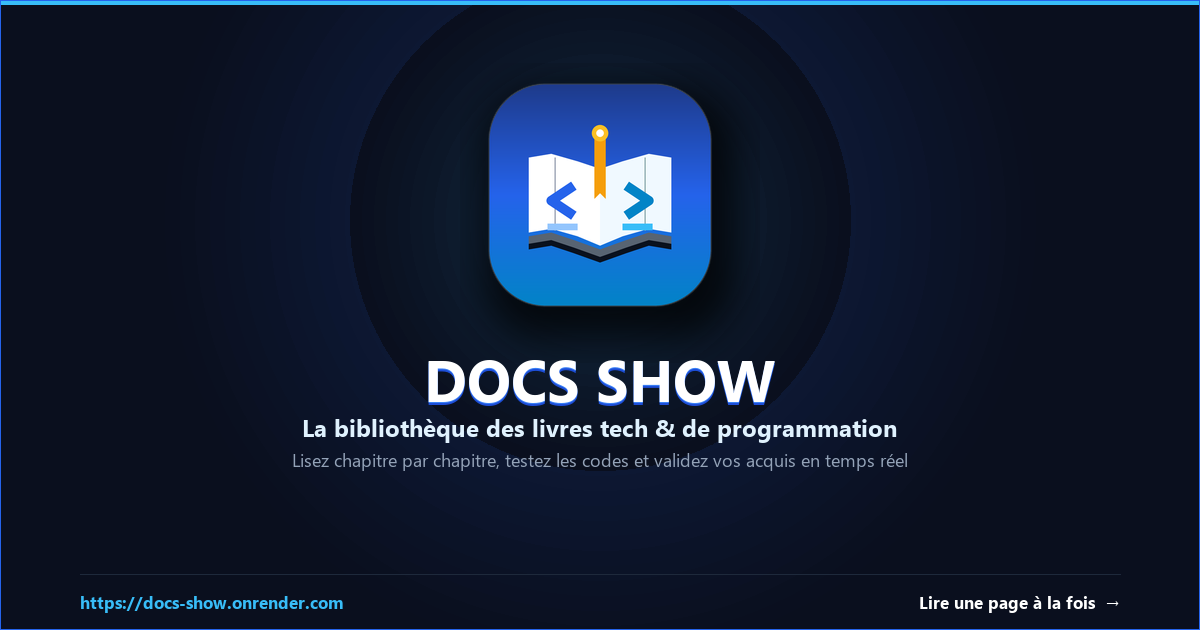
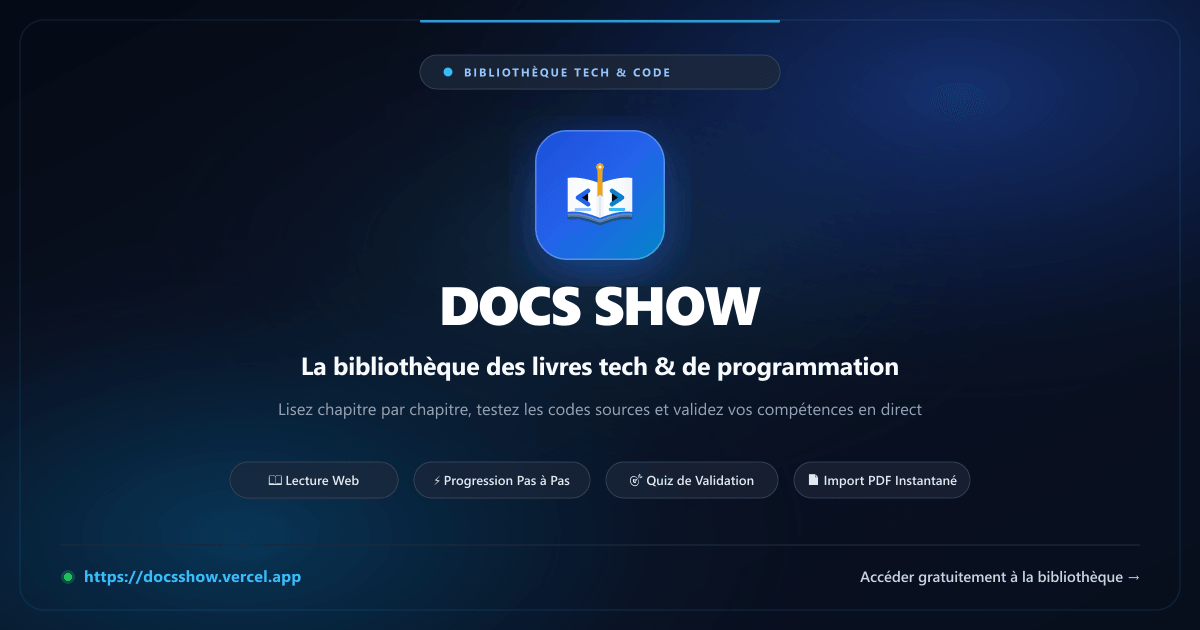
feat(seo): configuration complète OpenGraph et Twitter Cards pour https://docsshow.vercel.app/

diff --git a/scripts/generate-og.js b/scripts/generate-og.js
@@ -1,0 +1,194 @@
+const fs = require('fs');
+const path = require('path');
+const sharp = require('sharp');
+
+async function generateOG() {
+  const width = 1200;
+  const height = 630;
+
+  const svg = `
+  <svg width="${width}" height="${height}" viewBox="0 0 ${width} ${height}" xmlns="http://www.w3.org/2000/svg">
+    <defs>
+      <!-- Background Gradients -->
+      <linearGradient id="bgGrad" x1="0%" y1="0%" x2="100%" y2="100%">
+        <stop offset="0%" stop-color="#050a14"/>
+        <stop offset="45%" stop-color="#0a1224"/>
+        <stop offset="100%" stop-color="#080e1c"/>
+      </linearGradient>
+
+      <!-- Radial Glow Orbs -->
+      <radialGradient id="orbTop" cx="80%" cy="15%" r="50%">
+        <stop offset="0%" stop-color="#2563eb" stop-opacity="0.38"/>
+        <stop offset="60%" stop-color="#1d4ed8" stop-opacity="0.10"/>
+        <stop offset="100%" stop-color="#0a1224" stop-opacity="0"/>
+      </radialGradient>
+
+      <radialGradient id="orbBottom" cx="20%" cy="85%" r="50%">
+        <stop offset="0%" stop-color="#0284c7" stop-opacity="0.32"/>
+        <stop offset="60%" stop-color="#0369a1" stop-opacity="0.08"/>
+        <stop offset="100%" stop-color="#050a14" stop-opacity="0"/>
+      </radialGradient>
+
+      <radialGradient id="centerGlow" cx="50%" cy="40%" r="40%">
+        <stop offset="0%" stop-color="#38bdf8" stop-opacity="0.15"/>
+        <stop offset="100%" stop-color="#0a1224" stop-opacity="0"/>
+      </radialGradient>
+
+      <!-- Logo Squircle Gradient -->
+      <linearGradient id="logoBg" x1="0%" y1="0%" x2="100%" y2="100%">
+        <stop offset="0%" stop-color="#1d4ed8"/>
+        <stop offset="50%" stop-color="#2563eb"/>
+        <stop offset="100%" stop-color="#0284c7"/>
+      </linearGradient>
+
+      <!-- Page Gradients -->
+      <linearGradient id="pageLeft" x1="0%" y1="0%" x2="100%" y2="0%">
+        <stop offset="0%" stop-color="#f8fafc"/>
+        <stop offset="85%" stop-color="#ffffff"/>
+        <stop offset="100%" stop-color="#e2e8f0"/>
+      </linearGradient>
+      <linearGradient id="pageRight" x1="0%" y1="0%" x2="100%" y2="0%">
+        <stop offset="0%" stop-color="#e2e8f0"/>
+        <stop offset="15%" stop-color="#ffffff"/>
+        <stop offset="100%" stop-color="#f1f5f9"/>
+      </linearGradient>
+
+      <!-- Bookmark Ribbon Gradient -->
+      <linearGradient id="ribbon" x1="0%" y1="0%" x2="0%" y2="100%">
+        <stop offset="0%" stop-color="#fbbf24"/>
+        <stop offset="100%" stop-color="#d97706"/>
+      </linearGradient>
+
+      <!-- Filters for Glow & Shadows -->
+      <filter id="logoGlow" x="-20%" y="-20%" width="140%" height="140%">
+        <feDropShadow dx="0" dy="12" stdDeviation="24" flood-color="#2563eb" flood-opacity="0.45"/>
+      </filter>
+      <filter id="cardShadow" x="-10%" y="-10%" width="120%" height="120%">
+        <feDropShadow dx="0" dy="4" stdDeviation="8" flood-color="#000000" flood-opacity="0.5"/>
+      </filter>
+    </defs>
+
+    <!-- 1. Background -->
+    <rect width="${width}" height="${height}" fill="url(#bgGrad)"/>
+    <rect width="${width}" height="${height}" fill="url(#orbTop)"/>
+    <rect width="${width}" height="${height}" fill="url(#orbBottom)"/>
+    <rect width="${width}" height="${height}" fill="url(#centerGlow)"/>
+
+    <!-- Subtle Outer Border Frame -->
+    <rect x="20" y="20" width="${width - 40}" height="${height - 40}" rx="24" fill="none" stroke="#38bdf8" stroke-opacity="0.12" stroke-width="1.5"/>
+
+    <!-- Decorative Top Accent Line -->
+    <rect x="420" y="20" width="360" height="2.5" rx="1" fill="#38bdf8" fill-opacity="0.8"/>
+
+    <!-- 2. Header Kicker Pill -->
+    <g transform="translate(600, 72)">
+      <rect x="-180" y="-17" width="360" height="34" rx="17" fill="#1e293b" fill-opacity="0.75" stroke="#334155" stroke-width="1"/>
+      <circle cx="-152" cy="0" r="4.5" fill="#38bdf8"/>
+      <text x="-136" y="4.5" fill="#93c5fd" font-family="-apple-system, BlinkMacSystemFont, 'Segoe UI', Roboto, Helvetica, Arial, sans-serif" font-size="11.5" font-weight="700" letter-spacing="2">BIBLIOTHÈQUE TECH &amp; CODE</text>
+    </g>
+
+    <!-- 3. Central Brand Logo Icon -->
+    <g transform="translate(600, 195)" filter="url(#logoGlow)">
+      <!-- Squircle Base -->
+      <rect x="-65" y="-65" width="130" height="130" rx="32" fill="url(#logoBg)"/>
+      <rect x="-64.25" y="-64.25" width="128.5" height="128.5" rx="31.25" fill="none" stroke="#ffffff" stroke-opacity="0.25" stroke-width="1.5"/>
+
+      <!-- Inner Book Icon scaled (viewBox 0 0 64 64 scaled up by 1.7) -->
+      <g transform="scale(1.7) translate(-32, -32)">
+        <!-- Book Depth / Underlay -->
+        <path d="M 13 44 C 19 43 25 45 32 47.5 C 39 45 45 43 51 44 L 51 46.5 C 45 45.5 39 47.5 32 50 C 25 47.5 19 45.5 13 46.5 Z" fill="#0f172a" opacity="0.45"/>
+        <path d="M 13 43 C 19 42 25 44 32 46.5 C 39 44 45 42 51 43 L 51 45 C 45 44 39 46 32 48.5 C 25 46 19 44 13 45 Z" fill="#94a3b8" opacity="0.5"/>
+
+        <!-- Left Page -->
+        <path d="M 32 25 C 26 23 19 21 13 22 L 13 42 C 19 41 26 43 32 45.5 Z" fill="url(#pageLeft)"/>
+        <path d="M 25 29.5 L 19 33.5 L 25 37.5" stroke="#2563eb" stroke-width="2.6" stroke-linecap="round" stroke-linejoin="round"/>
+        <path d="M 18 40.5 H 26" stroke="#93c5fd" stroke-width="1.8" stroke-linecap="round"/>
+
+        <!-- Right Page -->
+        <path d="M 32 25 C 38 23 45 21 51 22 L 51 42 C 45 41 38 43 32 45.5 Z" fill="url(#pageRight)"/>
+        <path d="M 39 29.5 L 45 33.5 L 39 37.5" stroke="#0284c7" stroke-width="2.6" stroke-linecap="round" stroke-linejoin="round"/>
+        <path d="M 38 40.5 H 46" stroke="#38bdf8" stroke-width="1.8" stroke-linecap="round"/>
+
+        <!-- Bookmark Ribbon -->
+        <path d="M 30.5 16.5 H 33.5 V 33 L 32 31.5 L 30.5 33 Z" fill="url(#ribbon)"/>
+        <circle cx="32" cy="15.5" r="2.2" fill="#fbbf24"/>
+        <circle cx="32" cy="15.5" r="1" fill="#ffffff"/>
+      </g>
+    </g>
+
+    <!-- 4. Main Titles & Typography -->
+    <!-- App Name -->
+    <text x="600" y="325" text-anchor="middle" fill="#ffffff" font-family="-apple-system, BlinkMacSystemFont, 'Segoe UI', Roboto, Helvetica, Arial, sans-serif" font-size="54" font-weight="900" letter-spacing="-1.5">DOCS SHOW</text>
+
+    <!-- Value Proposition -->
+    <text x="600" y="375" text-anchor="middle" fill="#f8fafc" font-family="-apple-system, BlinkMacSystemFont, 'Segoe UI', Roboto, Helvetica, Arial, sans-serif" font-size="25" font-weight="700" letter-spacing="-0.3">La bibliothèque des livres tech &amp; de programmation</text>
+
+    <!-- Tagline description -->
+    <text x="600" y="415" text-anchor="middle" fill="#94a3b8" font-family="-apple-system, BlinkMacSystemFont, 'Segoe UI', Roboto, Helvetica, Arial, sans-serif" font-size="16.5" font-weight="450" letter-spacing="0">Lisez chapitre par chapitre, testez les codes sources et validez vos compétences en direct</text>
+
+    <!-- 5. Feature Badges (Interactive Pills) -->
+    <g transform="translate(600, 480)">
+      <!-- Pill 1: Lecture interactive -->
+      <g transform="translate(-370, 0)">
+        <rect x="0" y="-18" width="168" height="36" rx="18" fill="#1e293b" fill-opacity="0.6" stroke="#334155" stroke-width="1"/>
+        <text x="84" y="5" text-anchor="middle" fill="#e2e8f0" font-family="-apple-system, BlinkMacSystemFont, 'Segoe UI', Roboto, sans-serif" font-size="13" font-weight="600">📖 Lecture Web</text>
+      </g>
+
+      <!-- Pill 2: Découpage par chapitre -->
+      <g transform="translate(-186, 0)">
+        <rect x="0" y="-18" width="176" height="36" rx="18" fill="#1e293b" fill-opacity="0.6" stroke="#334155" stroke-width="1"/>
+        <text x="88" y="5" text-anchor="middle" fill="#e2e8f0" font-family="-apple-system, BlinkMacSystemFont, 'Segoe UI', Roboto, sans-serif" font-size="13" font-weight="600">⚡ Progression Pas à Pas</text>
+      </g>
+
+      <!-- Pill 3: Quiz interactifs -->
+      <g transform="translate(6, 0)">
+        <rect x="0" y="-18" width="172" height="36" rx="18" fill="#1e293b" fill-opacity="0.6" stroke="#334155" stroke-width="1"/>
+        <text x="86" y="5" text-anchor="middle" fill="#e2e8f0" font-family="-apple-system, BlinkMacSystemFont, 'Segoe UI', Roboto, sans-serif" font-size="13" font-weight="600">🎯 Quiz de Validation</text>
+      </g>
+
+      <!-- Pill 4: Conversion PDF -->
+      <g transform="translate(194, 0)">
+        <rect x="0" y="-18" width="176" height="36" rx="18" fill="#1e293b" fill-opacity="0.6" stroke="#334155" stroke-width="1"/>
+        <text x="88" y="5" text-anchor="middle" fill="#e2e8f0" font-family="-apple-system, BlinkMacSystemFont, 'Segoe UI', Roboto, sans-serif" font-size="13" font-weight="600">📄 Import PDF Instantané</text>
+      </g>
+    </g>
+
+    <!-- 6. Bottom Separator Line -->
+    <line x1="60" y1="545" x2="1140" y2="545" stroke="#1e293b" stroke-width="1.2"/>
+
+    <!-- 7. Footer Status & Live URL -->
+    <!-- Left: Live URL -->
+    <g transform="translate(60, 582)">
+      <!-- Live Green Dot with pulse ring -->
+      <circle cx="8" cy="-5" r="7" fill="#22c55e" fill-opacity="0.25"/>
+      <circle cx="8" cy="-5" r="4" fill="#22c55e"/>
+      <text x="24" y="0" fill="#38bdf8" font-family="-apple-system, BlinkMacSystemFont, 'Segoe UI', Roboto, Helvetica, Arial, sans-serif" font-size="16" font-weight="700" letter-spacing="0.2">https://docsshow.vercel.app</text>
+    </g>
+
+    <!-- Right: Call to Action -->
+    <g transform="translate(1140, 582)">
+      <text x="0" y="0" text-anchor="end" fill="#cbd5e1" font-family="-apple-system, BlinkMacSystemFont, 'Segoe UI', Roboto, Helvetica, Arial, sans-serif" font-size="15" font-weight="600" letter-spacing="-0.1">Accéder gratuitement à la bibliothèque →</text>
+    </g>
+  </svg>
+  `;
+
+  const buffer = Buffer.from(svg);
+  const pngBuffer = await sharp(buffer)
+    .png({ quality: 95, compressionLevel: 8 })
+    .toBuffer();
+
+  const root = path.resolve(__dirname, '..');
+  const targetFiles = [
+    path.join(root, 'public/opengraph-image.png'),
+    path.join(root, 'src/app/opengraph-image.png'),
+    path.join(root, 'src/app/twitter-image.png')
+  ];
+
+  for (const file of targetFiles) {
+    fs.writeFileSync(file, pngBuffer);
+    console.log('Saved:', file, 'size:', pngBuffer.length);
+  }
+}
+
+generateOG().catch(console.error);
+

diff --git a/src/lib/seo.ts b/src/lib/seo.ts
@@ -1,7 +1,11 @@
 import type { Metadata } from "next";
 
-export const SITE_URL = "https://docs-show.onrender.com";
+export const SITE_URL =
+  process.env.NEXT_PUBLIC_SITE_URL?.replace(/\/$/, "") ||
+  "https://docsshow.vercel.app";
+
 export const SOCIAL_IMAGE_URL = `${SITE_URL}/opengraph-image.png`;
+export const TWITTER_IMAGE_URL = `${SITE_URL}/twitter-image.png`;
 export const LOGO_URL = `${SITE_URL}/logo.png`;
 
 type PageMetadataInput = {
@@ -9,6 +13,11 @@ type PageMetadataInput = {
   description: string;
   path: string;
   noIndex?: boolean;
+  image?: string;
+  imageAlt?: string;
+  type?: "website" | "article";
+  publishedTime?: string;
+  authors?: string[];
 };
 
 export function createPageMetadata({
@@ -16,9 +25,16 @@ export function createPageMetadata({
   description,
   path,
   noIndex = false,
+  image,
+  imageAlt,
+  type = "website",
+  publishedTime,
+  authors,
 }: PageMetadataInput): Metadata {
   const url = new URL(path, SITE_URL).toString();
   const brandedTitle = `DOCS SHOW || ${title}`;
+  const effectiveImageUrl = image || SOCIAL_IMAGE_URL;
+  const effectiveImageAlt = imageAlt || `DOCS SHOW — ${title}`;
 
   return {
     title,
@@ -38,13 +54,21 @@ export function createPageMetadata({
           },
         },
     openGraph: {
-      type: "website",
+      type,
       locale: "fr_FR",
       siteName: "DOCS SHOW",
       title: brandedTitle,
       description,
       url,
       images: [
+        {
+          url: effectiveImageUrl,
+          secureUrl: effectiveImageUrl,
+          width: 1200,
+          height: 630,
+          type: "image/png",
+          alt: effectiveImageAlt,
+        },
         {
           url: LOGO_URL,
           secureUrl: LOGO_URL,
@@ -53,21 +77,17 @@ export function createPageMetadata({
           type: "image/png",
           alt: "DOCS SHOW — Logo officiel",
         },
-        {
-          url: SOCIAL_IMAGE_URL,
-          secureUrl: SOCIAL_IMAGE_URL,
-          width: 1200,
-          height: 630,
-          type: "image/png",
-          alt: "DOCS SHOW — La bibliothèque des livres tech",
-        },
       ],
+      ...(publishedTime ? { publishedTime } : {}),
+      ...(authors ? { authors } : {}),
     },
     twitter: {
       card: "summary_large_image",
       title: brandedTitle,
       description,
-      images: [SOCIAL_IMAGE_URL],
+      images: [effectiveImageUrl],
+      creator: "@docsshow",
+      site: "@docsshow",
     },
   };
 }

diff --git a/src/app/layout.tsx b/src/app/layout.tsx
@@ -62,20 +62,20 @@ export const metadata: Metadata = {
     url: `${SITE_URL}/`,
     images: [
       {
-        url: LOGO_URL,
-        secureUrl: LOGO_URL,
-        width: 512,
-        height: 512,
-        type: "image/png",
-        alt: "DOCS SHOW — Logo officiel",
-      },
-      {
         url: SOCIAL_IMAGE_URL,
         secureUrl: SOCIAL_IMAGE_URL,
         width: 1200,
         height: 630,
         type: "image/png",
         alt: "DOCS SHOW — La bibliothèque des livres tech",
+      },
+      {
+        url: LOGO_URL,
+        secureUrl: LOGO_URL,
+        width: 512,
+        height: 512,
+        type: "image/png",
+        alt: "DOCS SHOW — Logo officiel",
       },
     ],
   },
@@ -85,6 +85,8 @@ export const metadata: Metadata = {
     description:
       "Lisez des livres tech en ligne, avancez chapitre par chapitre et validez vos compétences avec des quiz interactifs.",
     images: [SOCIAL_IMAGE_URL],
+    creator: "@docsshow",
+    site: "@docsshow",
   },
   robots: {
     index: true,
@@ -113,6 +115,7 @@ const jsonLd = {
       "publisher": {
         "@id": `${SITE_URL}/#organization`,
       },
+      "image": SOCIAL_IMAGE_URL,
     },
     {
       "@type": "EducationalOrganization",
@@ -139,7 +142,7 @@ export default function RootLayout({ children }: { children: ReactNode }) {
   return (
     <html lang="fr" className="h-full antialiased">
       <head>
-        <link rel="image_src" href={LOGO_URL} />
+        <link rel="image_src" href={SOCIAL_IMAGE_URL} />
         <script
           type="application/ld+json"
           dangerouslySetInnerHTML={{ __html: JSON.stringify(jsonLd) }}

diff --git a/src/app/livres/[id]/page.tsx b/src/app/livres/[id]/page.tsx
@@ -25,10 +25,17 @@ export async function generateMetadata({ params }: BookPageProps): Promise<Metad
       });
     }
 
+    const description = book.subtitle
+      ? `${book.subtitle} — ${book.description}`
+      : book.description;
+
     return createPageMetadata({
-      title: book.title,
-      description: book.description,
+      title: `${book.title} — Livre tech`,
+      description,
       path: `/livres/${book.id}/`,
+      type: "article",
+      authors: [book.author],
+      imageAlt: `DOCS SHOW — ${book.title} par ${book.author}`,
     });
   } catch {
     return createPageMetadata({
